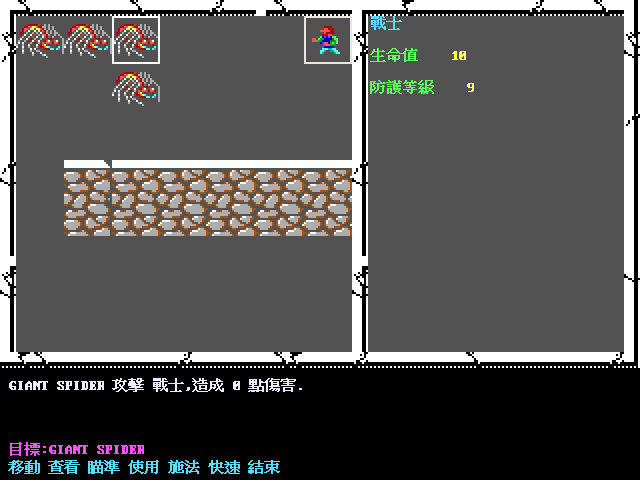
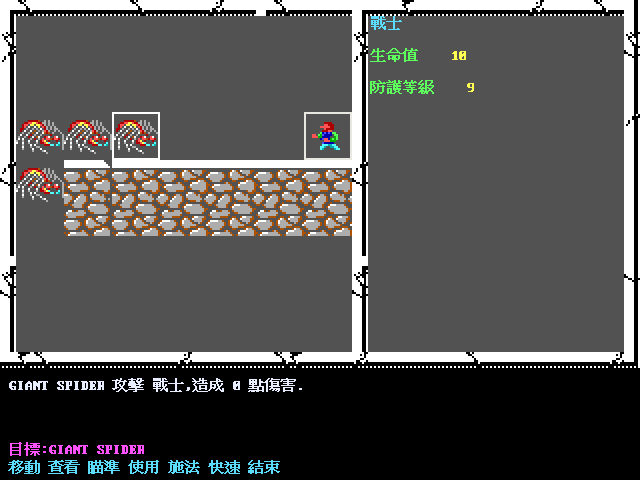
戰鬥地圖跟著地城座標走，編制帶移到視野中段
規格見 docs/spec/1132-combat-floor-sync-and-formation-band.md。

## 兩份戰鬥地圖

戰鬥地圖是由地城座標生出來的（GenerateDungeon）。checkpoint 的劇情流程會在
開戰之前把隊伍移到別的格，而那時地圖還是啟動時用舊座標生的——於是佈陣的
地面檢查讀舊地圖、畫面讀新地圖。Burial Glen 那一列開戰時是
「地板 地板 牆 牆 牆 牆 地板」，畫面上卻是「牆 牆 牆 牆 牆 牆 地板」。
這一次結果剛好還合法，但那是運氣：這是 spec 1130 那一類「兩層各自算」的
第五個來源，只是換成兩份地圖。

三支戰鬥地形投影改成查詢前先同步（座標沒變只做兩次整數比較），時機因此由
「誰記得先呼叫」變成「查詢時保證一致」。重生只重生地圖——refreshDungeonPreview
會一併重建牆面貼圖，需要 GPU 內容，不能從逐格查詢裡呼叫。

## 編制帶列起點

從第 0 列改成第 2 列：原本兩隊都貼在七列視野的上緣，單人隊伍會被推到右上角，
地圖中段的地形全部空著。仍是 fallback，不宣稱與原作逐格相同。

## 順帶：素材缺漏普查

二十個 checkpoint × 六個記錄點（戰鬥員圖示、戰鬥地形圖層、牆面 piece set 與
版面、共用符號段、人物舞台、PIC）全部零筆——第一人稱補上第 0 段符號之後，
目前這幾條路上沒有其他解不開的素材參照。

diff --git a/cmd/azure-bonds-game/main.go b/cmd/azure-bonds-game/main.go
@@ -170,6 +170,7 @@ func (a *app) combatMove(dx, dy int) error {
 // 所以要事先裝上去（spec 830／838 的移動階段）。
 func (a *app) combatMovementTerrain() combat.MovementTerrain {
 	return func(x, y int) (int, bool) {
+		a.ensureDungeonFloor()
 		mode := selectCombatTerrainName(a.state.Area.InDungeon, a.combatTerrainMode)
 		entry, ok := combatMovementTerrainEntry(
 			mode,
@@ -193,6 +194,7 @@ func (a *app) combatLineTerrain() combat.LineTerrain {
 	// 現在於任何 checkpoint 開戰之前就裝上，那時 `InDungeon` 與戰鬥座標
 	// 都還沒定案。
 	return func(x, y int) combat.LineCell {
+		a.ensureDungeonFloor()
 		mode := selectCombatTerrainName(a.state.Area.InDungeon, a.combatTerrainMode)
 		entry, ok := combatMovementTerrainEntry(
 			mode,
@@ -216,6 +218,7 @@ func (a *app) combatLineTerrain() combat.LineTerrain {
 // already one-based TDEF IDs; they must not be translated through TileIndex,
 // which belongs to the separate renderer-atlas namespace.
 func (a *app) combatScanTacticalMap() (enginescan.TacticalMap, error) {
+	a.ensureDungeonFloor()
 	mode := selectCombatTerrainName(a.state.Area.InDungeon, a.combatTerrainMode)
 	referenceCoordinates := a.state.CombatUsesReferenceCoordinates()
 	width, height := mapdata.WildernessWidth, mapdata.WildernessHeight
@@ -1040,6 +1043,29 @@ func (a *app) syncGeoMapRequest() {
 	a.refreshDungeonPreview()
 	a.geoSet, a.geoBlock = set, block
 	a.geoLabel = fmt.Sprintf("GEO%d block 0x%02X", set, block)
+}
+
+// ensureDungeonFloor 讓戰鬥地形與**目前**的地城座標一致。
+//
+// ★ 戰鬥地圖是由地城座標生出來的（`GenerateDungeon`），而 checkpoint 的劇情
+// 流程會在開戰之前把隊伍移到別的格。不同步的話，佈陣拿舊地圖檢查地面、畫面
+// 卻用新地圖畫——又回到「人站在牆裡」那一類的兩層不一致，只是換一種來源。
+//
+// 座標沒變時只做兩次整數比較，所以放在逐格查詢的入口是安全的。
+func (a *app) ensureDungeonFloor() {
+	if a.geoGrid == nil {
+		return
+	}
+	x, y, _ := a.state.DungeonGeometryView()
+	if x < 0 || x >= geo.Width || y < 0 || y >= geo.Height {
+		x, y = 7, 13
+	}
+	if a.dungeonFloor != nil && a.dungeonX == x && a.dungeonY == y {
+		return
+	}
+	a.dungeonX, a.dungeonY = x, y
+	floor := mapdata.GenerateDungeon(*a.geoGrid, x, y)
+	a.dungeonFloor = &floor
 }
 
 func (a *app) refreshDungeonPreview() {

diff --git a/internal/combat/placement.go b/internal/combat/placement.go
@@ -74,16 +74,22 @@ func IconDirectionForTeam(mapDirection uint8, side Side) (uint8, bool) {
 // 永遠不可能同時入鏡**：相機必然被迫開啟，然後對準哪一隊，另一隊就被推出
 // 畫面。這與本函式自己寫的「distinct halves of the current combat viewport」
 // 相矛盾，Burial Glen 的戰鬥截圖也因此只剩一個人、四隻蜘蛛全在畫面外。
+//
+// 列從第 2 列起算，讓兩條縱帶落在七列視野的**中段**而不是貼著上緣。人數多到
+// 排不下時往下延伸，相機自然接手。
 func FormationTile(side Side, ordinal int) TilePoint {
 	if ordinal < 0 {
 		ordinal = 0
 	}
-	column, row := ordinal%3, ordinal/3
+	column, row := ordinal%3, formationFirstRow+ordinal/3
 	if side == SideEnemy {
 		return TilePoint{X: 4 + column, Y: row}
 	}
 	return TilePoint{X: column, Y: row}
 }
+
+// formationFirstRow 是編制帶的起始列。
+const formationFirstRow = 2
 
 // ReferencePlacement applies the coordinate formula used by the reference
 // try_place_combatant routine. candidateRow/Column are the free cells in the

diff --git a/internal/combat/placement_test.go b/internal/combat/placement_test.go
@@ -54,10 +54,10 @@ func TestIconDirectionForTeamUsesReferenceHalfDirToIso(t *testing.T) {
 }
 
 func TestFormationTileSeparatesPartyAndEnemyRows(t *testing.T) {
-	if got := FormationTile(SideParty, 2); got != (TilePoint{X: 2, Y: 0}) {
+	if got := FormationTile(SideParty, 2); got != (TilePoint{X: 2, Y: 2}) {
 		t.Fatalf("party tile=%#v", got)
 	}
-	if got := FormationTile(SideEnemy, 2); got != (TilePoint{X: 6, Y: 0}) {
+	if got := FormationTile(SideEnemy, 2); got != (TilePoint{X: 6, Y: 2}) {
 		t.Fatalf("enemy tile=%#v", got)
 	}
 }

diff --git a/docs/spec/1132-combat-floor-sync-and-formation-band.md b/docs/spec/1132-combat-floor-sync-and-formation-band.md
@@ -1,0 +1,53 @@
+# 1132 — 戰鬥地圖要跟著地城座標走，編制帶放在視野中段
+
+- 證據等級：`exact`（戰鬥地圖的生成來源與再生時機由程式路徑逐行確認；
+  兩份地圖不一致的實例由 checkpoint 的逐格傾印量到）
+- 上游 spec 1130（兩層座標不一致的四個實例）、spec 88（`try_place_combatant`）
+
+## 一、佈陣檢查的地圖，跟畫面上的地圖可以是兩份
+
+戰鬥地圖不是常數，是由**地城座標**生出來的：`GenerateDungeon(格線, x, y)`。
+渲染端在隊伍移動時會重生一次（`refreshDungeonPreview`）。
+
+問題在於**生成的時機**：checkpoint 的劇情流程會在開戰之前把隊伍移到別的格，
+而那時 `dungeonFloor` 還是啟動時用舊座標生的那一份。於是
+
+- 佈陣的地面檢查（spec 1130 §三）讀**舊**地圖，
+- 畫面上的地形讀**新**地圖。
+
+實例：Burial Glen 的紅網戰鬥，開戰時那一列是
+`地板 地板 牆 牆 牆 牆 地板`，畫面上那一列卻是
+`牆 牆 牆 牆 牆 牆 地板`。這一次結果剛好還合法，但那是運氣——
+**這是 spec 1130 那一類「兩層各自算」的第五個來源，只是換成兩份地圖。**
+
+修法是讓三支戰鬥地形投影在查詢前先同步：座標沒變時只做兩次整數比較，
+變了才重生。時機因此由「誰記得先呼叫」變成「查詢時保證一致」。
+
+⚠ 重生要**只重生地圖**。`refreshDungeonPreview` 同時會重建牆面貼圖
+（要 GPU 內容），不能從逐格的地形查詢裡呼叫。
+
+## 二、編制帶從第 2 列起算
+
+`FormationTile` 的列原本從第 0 列起算，於是兩隊都貼在七列視野的**上緣**：
+單人隊伍會被推到右上角，地圖中段的地形全部空著。
+
+改成從第 2 列起算，兩條縱帶落在視野中段；人數多到排不下時往下延伸，
+相機自然接手。
+
+⚠ 這仍是 fallback。沒有 `SETUP MONSTER` 的距離與 occupancy 表之前，
+縱帶位置、列起點與掃描順序都是本作自訂的，不宣稱與原作逐格相同。
+
+## 順帶：素材缺漏的普查結果是零
+
+同一輪對二十個 checkpoint 做過一次「畫不出來就記一筆」的普查，
+記錄點涵蓋戰鬥員圖示、戰鬥地形圖層、牆面 piece set 與版面、共用符號段、
+人物舞台與 PIC。**二十個 checkpoint 全部零筆**——第一人稱牆面補上第 0 段
+（spec 1131）之後，目前這幾條路上沒有其他解不開的素材參照。
+
+## 明確不宣稱
+
+- 沒有宣稱 `GenerateDungeon` 產生的戰鬥地圖與原作逐格相同；本規格只處理
+  「哪一份地圖」的一致性，不處理那份地圖的內容正確性。
+- 沒有宣稱第 2 列是原作的編制列起點。
+- 「零筆缺漏」只涵蓋那二十個 checkpoint 走到的畫面與那六個記錄點，
+  不是全遊戲素材完整性的證明。

diff --git a/WORKLIST.md b/WORKLIST.md
@@ -1,6 +1,6 @@
 # 《青色枷的詛咒》目前工作清單
 
-更新日期：2026-08-18（第 570 輪：第一人稱牆面符號；第 569 輪：README 四張圖的圖層對齊；第 568 輪：第 2 批完成、雲格驗證、龍巫妖等級吸取）
+更新日期：2026-08-18（第 571 輪：戰鬥地圖同步與編制帶；第 570 輪：第一人稱牆面符號；第 569 輪：README 四張圖的圖層對齊；第 568 輪：第 2 批完成、雲格驗證、龍巫妖等級吸取）
 
 ## 目前執行順序（使用者 2026-08-16 指定，優先於下方所有舊清單）
 
@@ -83,6 +83,19 @@ overlay 與某個十六進位值」的檔案，而**它自己的輸出就在 `do
 
 - **等級吸取**：spec 1127 證明這個遊戲沒有（兩個消費者、零個生產者，怪物名單裡也沒有那一族）。復原術一定回「沒有可恢復的等級」是**原作行為**，不是 remake 缺口。
 - **逐法術視覺資產**：不存在「七十幾筆待補的視覺資料」，但**要先問一支法術走哪一種演出通道**（spec 1126／1128 共四種）：四格動畫（`entry#24`：共用施法投射物槽 18、閃電電弧 19、魔法命中 23）、持續區域格（兩種雲，寫進地圖格）、產生器（睡眠 twinkle）、八方向投射物（弓箭）。**火球與閃電確實不一樣**——閃電有專屬電弧圖沿線逐格播，火球沒有專屬圖，靠共用投射物飛過去、再對範圍內每個目標依序播魔法傷害命中。**毒雲也確實有演出**，只是走的是持續區域格那條通道，只數 `entry#24` 會把它算成沒有。
+
+#### 兩份戰鬥地圖與編制帶列起點（spec 1132）
+
+戰鬥地圖是由**地城座標**生出來的。checkpoint 的劇情流程會在開戰之前把隊伍移到
+別的格，而那時地圖還是啟動時用舊座標生的——於是**佈陣的地面檢查讀舊地圖、
+畫面讀新地圖**。這是 spec 1130 那一類「兩層各自算」的第五個來源，只是換成
+兩份地圖。三支戰鬥地形投影改成查詢前先同步（座標沒變只做兩次整數比較）。
+
+編制帶的列從第 0 列改成第 2 列起算：原本兩隊都貼在七列視野的上緣，單人隊伍
+會被推到右上角。
+
+順帶做了一次素材缺漏普查：二十個 checkpoint × 六個記錄點（戰鬥員圖示、戰鬥
+地形圖層、牆面 piece set 與版面、共用符號段、人物舞台、PIC）**全部零筆**。
 
 #### 第一人稱牆面：第 0 段符號與洋紅透明鍵（spec 1131）
 

diff --git a/docs/spec/549-dos-character-creation-and-screenshot-polish.md b/docs/spec/549-dos-character-creation-and-screenshot-polish.md
@@ -51,14 +51,15 @@ remake `(48,48)..(223,223)`，嚴格 2× nearest-neighbour；周圍灰色 stage 
 |---|---|---|
[7 lines of base64/hex data omitted]
 
 雜湊由 [第 1130 輪](1130-screenshot-layer-alignment.md)與
-[第 1131 輪](1131-wall-symbol-group-zero.md)重拍：前者修掉 sub-image 座標、
-戰鬥地形與戰鬥員的座標路徑、佈陣的地面檢查與戰場圖示來源；後者補上第一人稱
-牆面的第 0 段符號與洋紅透明鍵。
+[第 1131 輪](1131-wall-symbol-group-zero.md)、[第 1132 輪](1132-combat-floor-sync-and-formation-band.md)
+重拍：1130 修掉 sub-image 座標、戰鬥地形與戰鬥員的座標路徑、佈陣的地面檢查與
+戰場圖示來源；1131 補上第一人稱牆面的第 0 段符號與洋紅透明鍵；1132 讓佈陣
+與畫面用同一份戰鬥地圖，並把編制帶移到視野中段。
 
 這組畫面可證明目前文字留在各自的可用區、角色建立沒有錯誤分欄、原版 stone
 chrome 與 16×15 倚天基線已接通。它們是 `material-exact/layout-reconstructed` 的

diff --git a/docs/spec/README.md b/docs/spec/README.md
@@ -514,3 +514,4 @@
 - [1106 ECL `IF` 跳過與操作元個數表](./1106-ecl-if-skip-and-operand-arity.md)（`READY`：`IF` 條件不成立跳過下一條、`overlay-07 entry#29` 的 arity 表、原作跳過表少算 `34h`／`36h`；靜態可達 instruction 1,355→4,222、文字段落 43→221）
 - [1130 README 截圖的四個對齊錯誤](./1130-screenshot-layer-alignment.md)（`READY`：sub-image 目的地座標只裁切不平移、戰鬥地形要跟戰鬥員走同一條相機＋鏡像路徑、佈陣的地面檢查與敵方縱帶落在視野內、戰場圖示是 CPIC 不是 SPRIT；第一人稱幾何與 spec 1006 逐項相符，不含 `WALLDEF` 美術對應）
 - [1131 第一人稱牆面的第 0 段符號與洋紅透明鍵](./1131-wall-symbol-group-zero.md)（`READY`：`Put8x8Symbol` 五段分界、第 0 段是 `8X8D1.DAX` 區塊 `0CBh` 的 45 項共用資源、EGA index 13 是牆面素材的透明鍵；不含載入端的反組譯與逐格美術對照）
+- [1132 戰鬥地圖與地城座標同步、編制帶列起點](./1132-combat-floor-sync-and-formation-band.md)（`READY`：戰鬥地圖由地城座標生成，查詢前先同步，佈陣與畫面不再讀到兩份；編制帶改從第 2 列起算；仍是 fallback，不宣稱與原作逐格相同）
